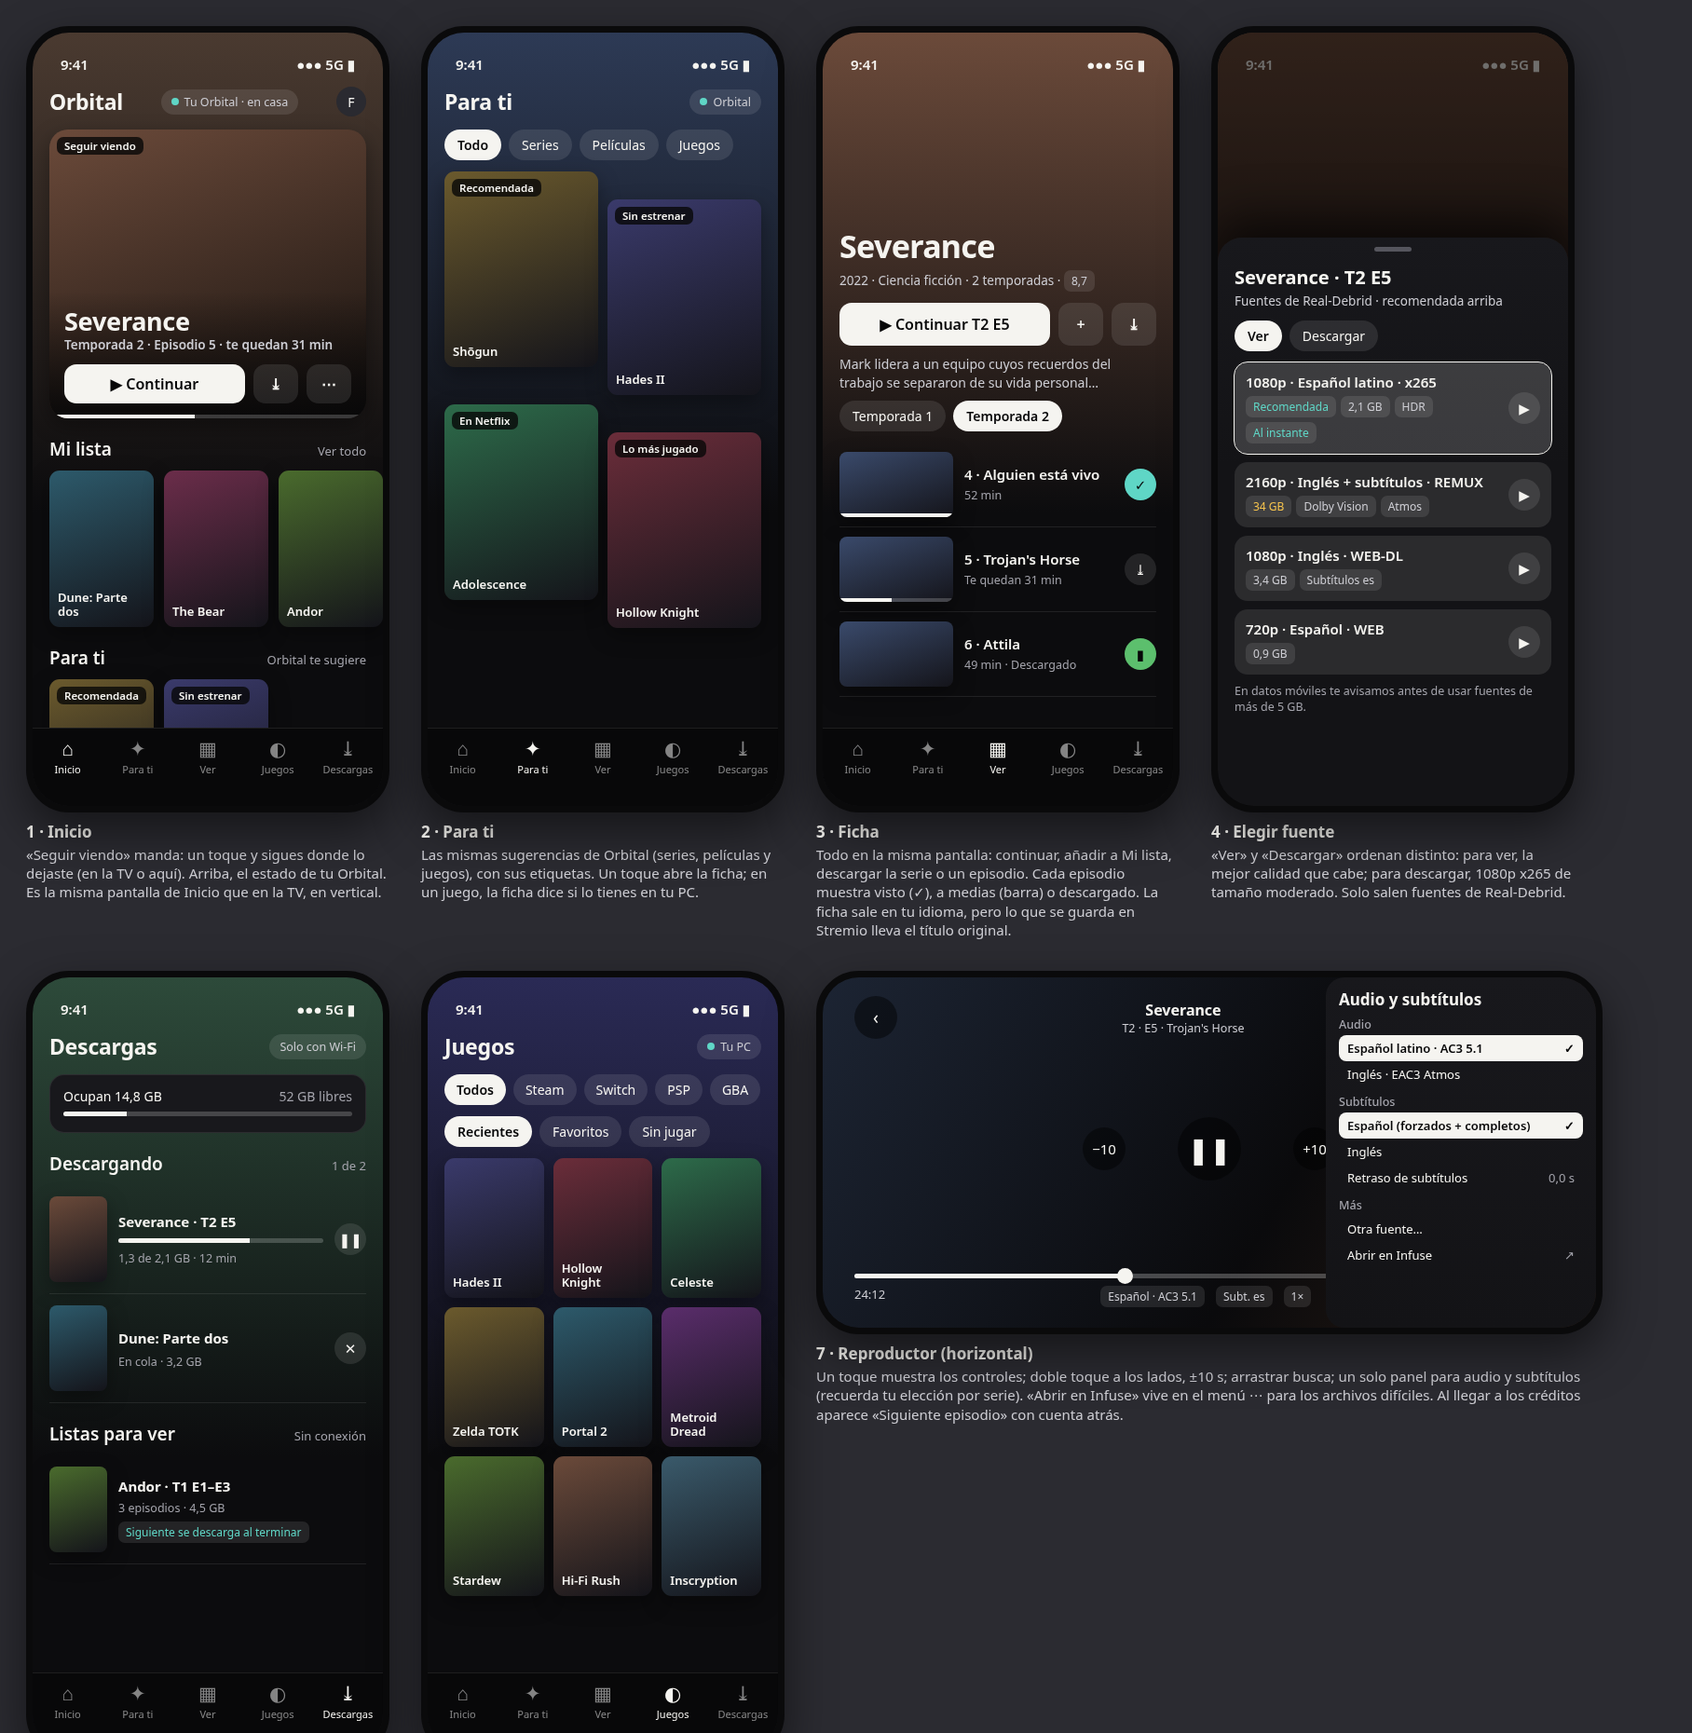
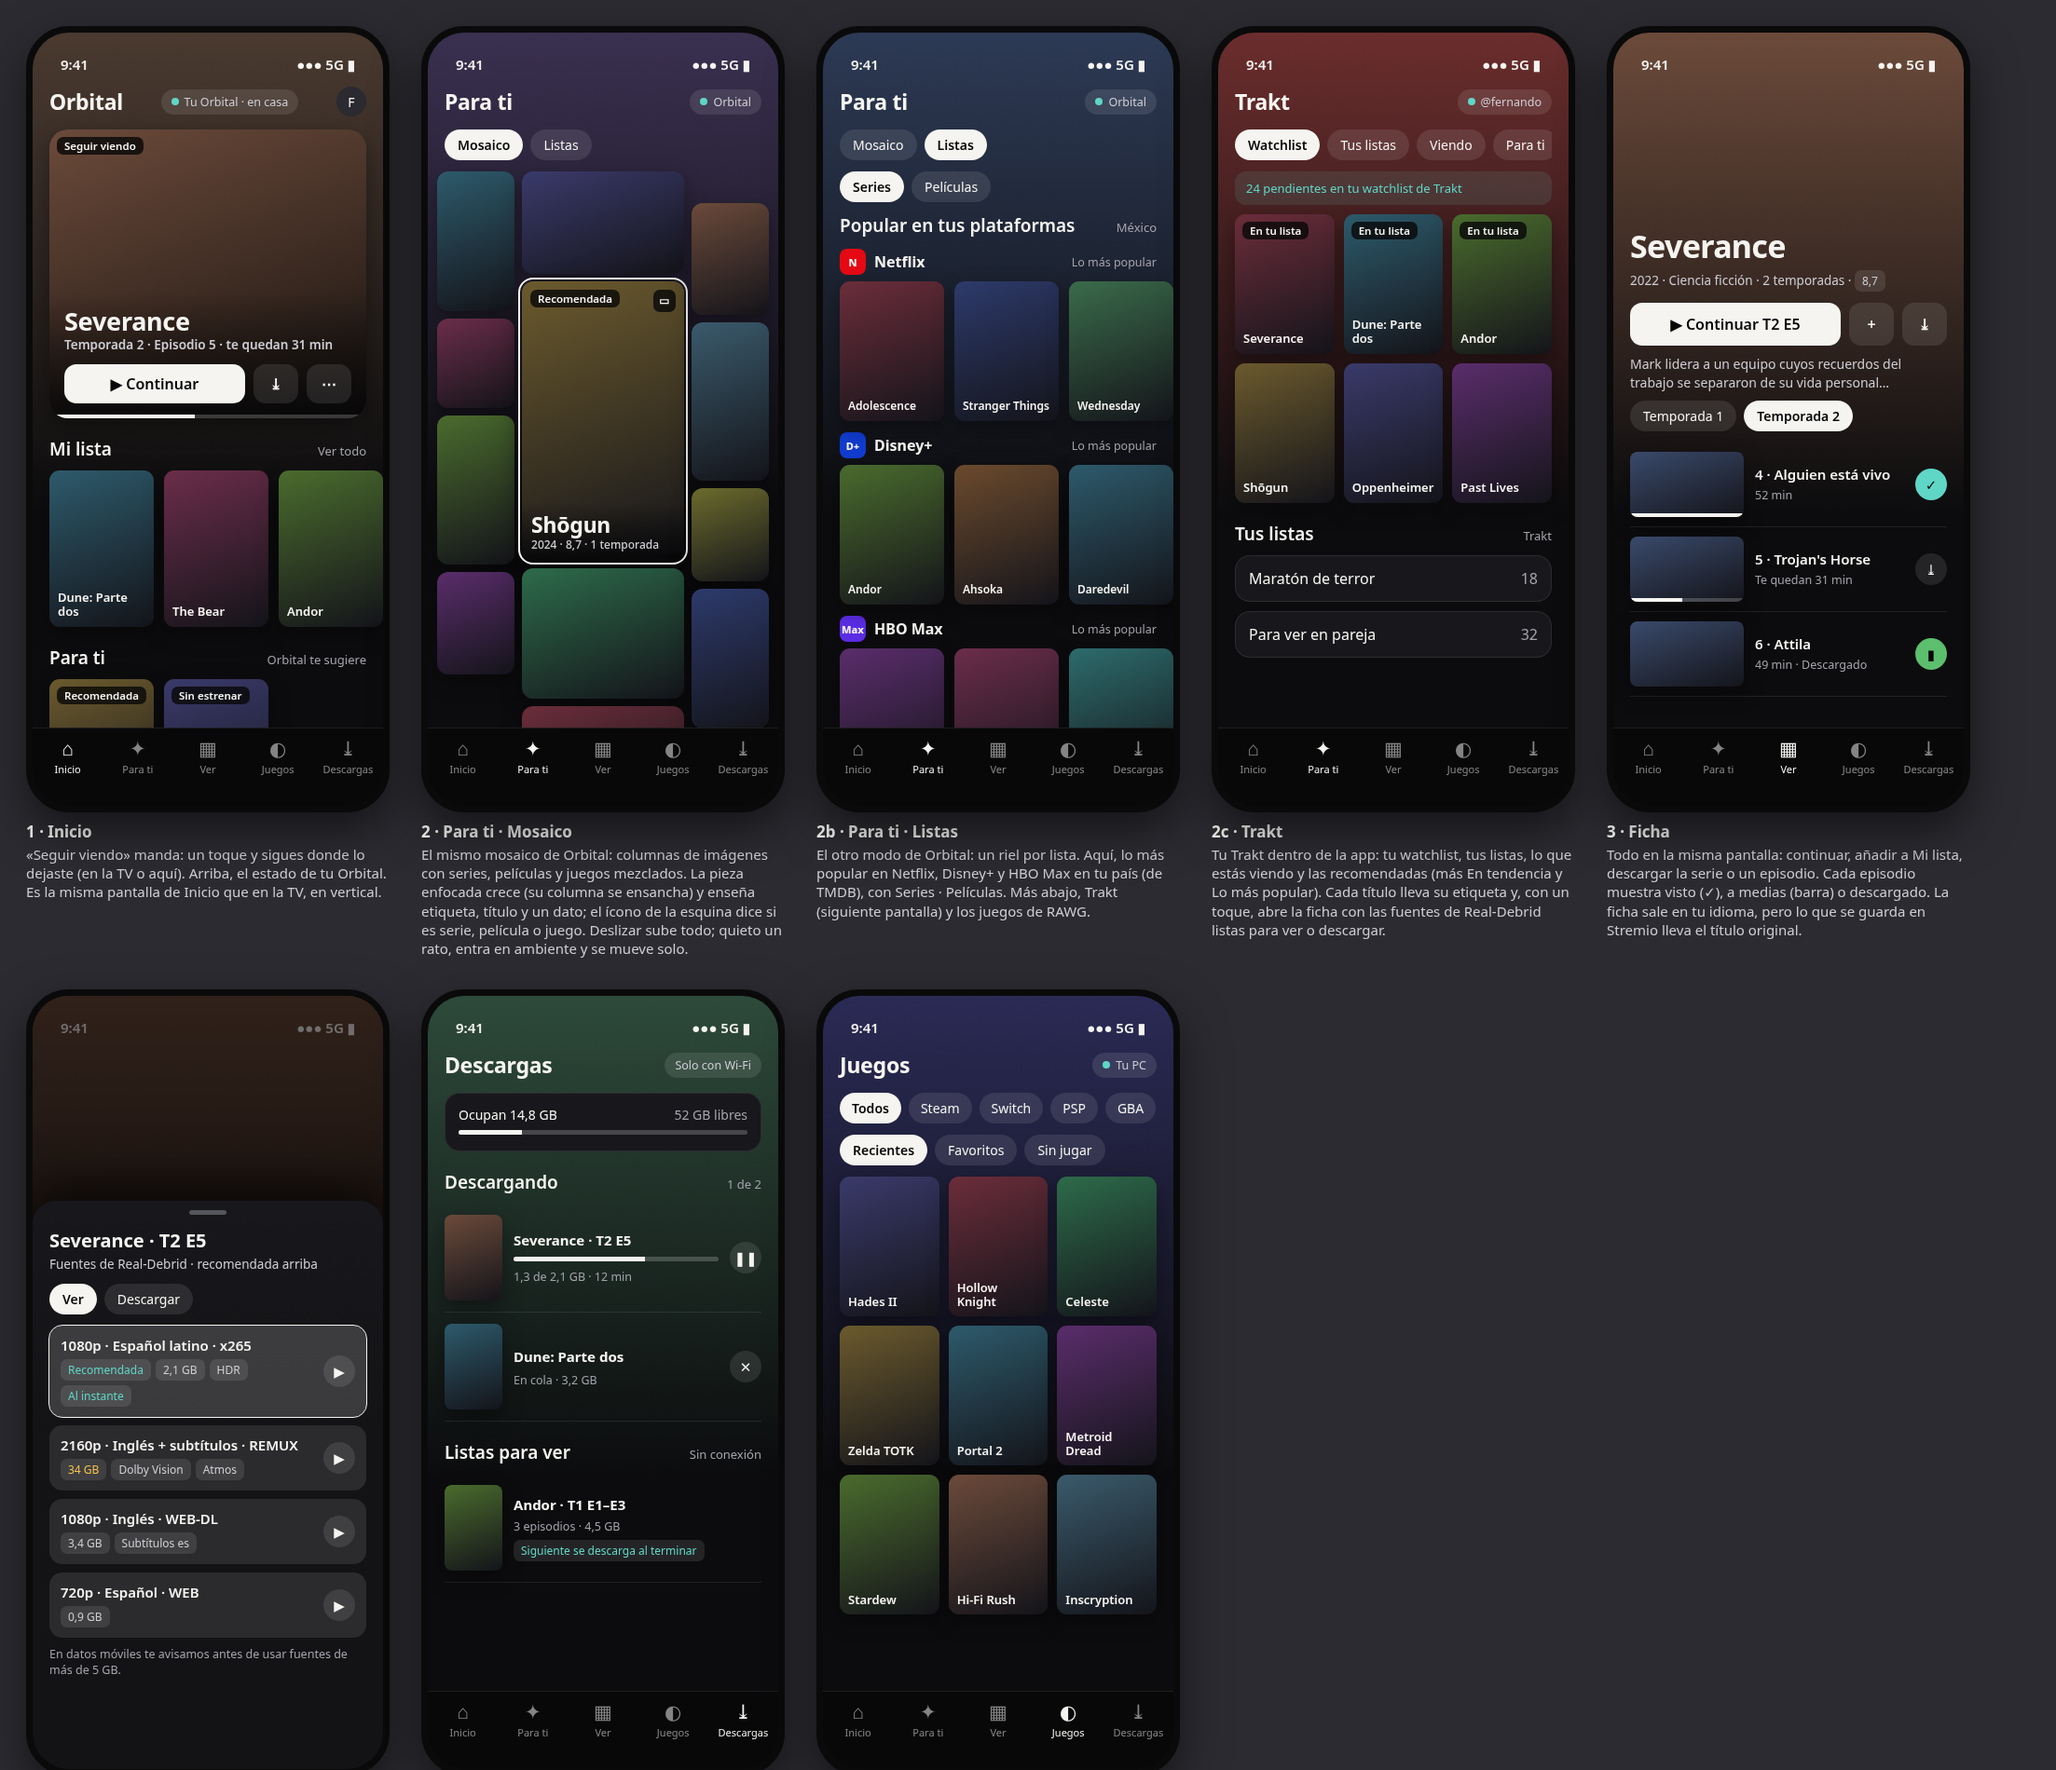
Interfaz iPhone: Para ti con mosaico de Orbital, populares por plataforma y zona de Trakt

diff --git a/docs/ios-interfaz/maqueta.html b/docs/ios-interfaz/maqueta.html
@@ -8,7 +8,7 @@
   --hair:rgba(255,255,255,.09);--fill:rgba(255,255,255,.1);--muted:var(--ink-300);--faint:rgba(255,255,255,.5);
 }
 *{box-sizing:border-box;margin:0}
-body{background:#2b2b31;font-family:-apple-system,"SF Pro Text","Segoe UI",system-ui,sans-serif;color:var(--paper);padding:28px;display:flex;flex-wrap:wrap;gap:34px;align-items:flex-start;width:1760px}
+body{background:#2b2b31;font-family:-apple-system,"SF Pro Text","Segoe UI",system-ui,sans-serif;color:var(--paper);padding:28px;display:flex;flex-wrap:wrap;gap:34px;align-items:flex-start;width:2150px}
 figure{display:flex;flex-direction:column;gap:10px}
 figcaption{font-size:15px;color:var(--ink-200);width:390px;line-height:1.35}
 figcaption b{color:var(--paper);display:block;font-size:17px;margin-bottom:2px}
@@ -70,6 +70,15 @@ h2 small{font-size:13px;font-weight:400;color:var(--muted)}
 .banner{border-radius:12px;background:rgba(244,194,77,.12);color:var(--amber);padding:9px 12px;font-size:13px;margin-bottom:10px}
 .mosaic{display:grid;grid-template-columns:1fr 1fr;gap:10px}.mosaic .poster{height:210px}.mosaic .poster:nth-child(2n){margin-top:30px}
 .sys{display:flex;gap:8px;overflow:hidden;margin-bottom:12px}.sys span{padding:7px 13px;border-radius:99px;background:var(--fill);font-size:14px;white-space:nowrap}.sys .on{background:var(--paper);color:var(--ink-1000);font-weight:650}
+.mos{display:flex;gap:8px;align-items:flex-start;justify-content:center}
+.col{display:flex;flex-direction:column;gap:8px}.col .poster{border-radius:12px;width:100%;padding:0}
+.poster.foc{outline:2px solid var(--paper);outline-offset:2px;position:relative;box-shadow:0 14px 30px rgba(0,0,0,.55)}
+.poster.foc .inf{margin-top:auto;padding:10px;width:100%;background:linear-gradient(0deg,rgba(7,7,8,.92),transparent);display:flex;flex-direction:column;gap:2px}
+.poster.foc .inf b{font-size:23px;font-weight:750;letter-spacing:-.01em}.poster.foc .inf span{font-size:12px;font-weight:500;color:var(--ink-200)}
+.corner{position:absolute;top:9px;right:9px;width:24px;height:24px;border-radius:7px;background:rgba(7,7,8,.8);display:grid;place-items:center;font-size:12px}
+.plat{display:flex;align-items:center;gap:9px;margin:12px 0 7px}.plat b{font-size:16px}.plat small{color:var(--muted);font-size:12.5px;margin-left:auto}
+.lg{width:28px;height:28px;border-radius:8px;display:grid;place-items:center;font-size:11px;font-weight:800}
+.row.sm .poster{width:112px;height:150px;flex:none;font-size:12px}
 </style>
 
 <!-- 1 INICIO -->
@@ -86,21 +95,64 @@ h2 small{font-size:13px;font-weight:400;color:var(--muted)}
 <div class="tabs"><div class="tab on"><i>⌂</i>Inicio</div><div class="tab"><i>✦</i>Para ti</div><div class="tab"><i>▦</i>Ver</div><div class="tab"><i>◐</i>Juegos</div><div class="tab"><i>⤓</i>Descargas</div></div>
 </div><figcaption><b>1 · Inicio</b>«Seguir viendo» manda: un toque y sigues donde lo dejaste (en la TV o aquí). Arriba, el estado de tu Orbital. Es la misma pantalla de Inicio que en la TV, en vertical.</figcaption></figure>
 
-<!-- 2 PARA TI -->
+<!-- 2 PARA TI · MOSAICO -->
+<figure><div class="phone"><div class="tint" style="--tint:#3a3050"></div>
+<div class="status"><span>9:41</span><span>●●● 5G ▮</span></div>
+<div class="scroll" style="padding:6px 10px">
+ <div class="top" style="padding:0 8px"><span class="brand">Para ti</span><span class="pill"><span class="dot"></span>Orbital</span></div>
+ <div class="seg" style="padding:0 8px;margin-top:0"><span class="on">Mosaico</span><span>Listas</span></div>
+ <div class="mos">
+  <div class="col" style="width:84px;margin-top:0">
+   <div class="poster" style="--c1:#2d5a6b;height:150px"></div><div class="poster" style="--c1:#6b2d4a;height:96px"></div><div class="poster" style="--c1:#4a6b2d;height:160px"></div><div class="poster" style="--c1:#5a2d6b;height:110px"></div>
+  </div>
+  <div class="col" style="width:176px">
+   <div class="poster" style="--c1:#3a3a6b;height:110px"></div>
+   <div class="poster foc" style="--c1:#6b5a2d;height:300px"><span class="corner">▭</span><span class="badge" style="top:9px;left:9px">Recomendada</span><div class="inf"><b>Shōgun</b><span>2024 · 8,7 · 1 temporada</span></div></div>
+   <div class="poster" style="--c1:#2d6b4a;height:140px"></div><div class="poster" style="--c1:#6b2d3a;height:120px"></div>
+  </div>
+  <div class="col" style="width:84px;margin-top:34px">
+   <div class="poster" style="--c1:#6b4a3a;height:120px"></div><div class="poster" style="--c1:#3a5a6b;height:170px"></div><div class="poster" style="--c1:#6b6b2d;height:100px"></div><div class="poster" style="--c1:#2d3a6b;height:150px"></div>
+  </div>
+ </div>
+</div>
+<div class="tabs"><div class="tab"><i>⌂</i>Inicio</div><div class="tab on"><i>✦</i>Para ti</div><div class="tab"><i>▦</i>Ver</div><div class="tab"><i>◐</i>Juegos</div><div class="tab"><i>⤓</i>Descargas</div></div>
+</div><figcaption><b>2 · Para ti · Mosaico</b>El mismo mosaico de Orbital: columnas de imágenes con series, películas y juegos mezclados. La pieza enfocada crece (su columna se ensancha) y enseña etiqueta, título y un dato; el ícono de la esquina dice si es serie, película o juego. Deslizar sube todo; quieto un rato, entra en ambiente y se mueve solo.</figcaption></figure>
+
+<!-- 2b PARA TI · LISTAS -->
 <figure><div class="phone"><div class="tint" style="--tint:#2d3a55"></div>
 <div class="status"><span>9:41</span><span>●●● 5G ▮</span></div>
 <div class="scroll">
  <div class="top"><span class="brand">Para ti</span><span class="pill"><span class="dot"></span>Orbital</span></div>
- <div class="seg"><span class="on">Todo</span><span>Series</span><span>Películas</span><span>Juegos</span></div>
- <div class="mosaic">
-  <div class="poster" style="--c1:#6b5a2d"><span class="badge">Recomendada</span>Shōgun</div>
-  <div class="poster" style="--c1:#3a3a6b"><span class="badge">Sin estrenar</span>Hades II</div>
-  <div class="poster" style="--c1:#2d6b4a"><span class="badge">En Netflix</span>Adolescence</div>
-  <div class="poster" style="--c1:#6b2d3a"><span class="badge">Lo más jugado</span>Hollow Knight</div>
- </div>
+ <div class="seg" style="margin-top:0"><span>Mosaico</span><span class="on">Listas</span></div>
+ <div class="seg" style="margin:0 0 4px"><span class="on">Series</span><span>Películas</span></div>
+ <h2 style="margin-top:12px">Popular en tus plataformas <small>México</small></h2>
+ <div class="plat"><span class="lg" style="background:#e50914">N</span><b>Netflix</b><small>Lo más popular</small></div>
+ <div class="row sm"><div class="poster" style="--c1:#6b2d3a">Adolescence</div><div class="poster" style="--c1:#2d3a6b">Stranger Things</div><div class="poster" style="--c1:#3a6b4a">Wednesday</div></div>
+ <div class="plat"><span class="lg" style="background:#113ccf">D+</span><b>Disney+</b><small>Lo más popular</small></div>
+ <div class="row sm"><div class="poster" style="--c1:#4a6b2d">Andor</div><div class="poster" style="--c1:#6b4a2d">Ahsoka</div><div class="poster" style="--c1:#2d5a6b">Daredevil</div></div>
+ <div class="plat"><span class="lg" style="background:#5c2de6">Max</span><b>HBO Max</b><small>Lo más popular</small></div>
+ <div class="row sm"><div class="poster" style="--c1:#5a2d6b">The Last of Us</div><div class="poster" style="--c1:#6b2d4a">Succession</div><div class="poster" style="--c1:#2d6b6b">Hacks</div></div>
 </div>
 <div class="tabs"><div class="tab"><i>⌂</i>Inicio</div><div class="tab on"><i>✦</i>Para ti</div><div class="tab"><i>▦</i>Ver</div><div class="tab"><i>◐</i>Juegos</div><div class="tab"><i>⤓</i>Descargas</div></div>
-</div><figcaption><b>2 · Para ti</b>Las mismas sugerencias de Orbital (series, películas y juegos), con sus etiquetas. Un toque abre la ficha; en un juego, la ficha dice si lo tienes en tu PC.</figcaption></figure>
+</div><figcaption><b>2b · Para ti · Listas</b>El otro modo de Orbital: un riel por lista. Aquí, lo más popular en Netflix, Disney+ y HBO Max en tu país (de TMDB), con Series · Películas. Más abajo, Trakt (siguiente pantalla) y los juegos de RAWG.</figcaption></figure>
+
+<!-- 2c TRAKT -->
+<figure><div class="phone"><div class="tint" style="--tint:#6b2d2d"></div>
+<div class="status"><span>9:41</span><span>●●● 5G ▮</span></div>
+<div class="scroll">
+ <div class="top"><span class="brand">Trakt</span><span class="pill"><span class="dot"></span>@fernando</span></div>
+ <div class="seg"><span class="on">Watchlist</span><span>Tus listas</span><span>Viendo</span><span>Para ti</span></div>
+ <div class="banner" style="background:rgba(95,214,198,.12);color:var(--teal)">24 pendientes en tu watchlist de Trakt</div>
+ <div class="grid">
+  <div class="poster" style="--c1:#6b2d3a"><span class="badge">En tu lista</span>Severance</div><div class="poster" style="--c1:#2d5a6b"><span class="badge">En tu lista</span>Dune: Parte dos</div><div class="poster" style="--c1:#4a6b2d"><span class="badge">En tu lista</span>Andor</div>
+  <div class="poster" style="--c1:#6b5a2d">Shōgun</div><div class="poster" style="--c1:#3a3a6b">Oppenheimer</div><div class="poster" style="--c1:#5a2d6b">Past Lives</div>
+ </div>
+ <h2>Tus listas <small>Trakt</small></h2>
+ <div class="card" style="display:flex;justify-content:space-between"><span>Maratón de terror</span><span style="color:var(--muted)">18</span></div>
+ <div class="card" style="display:flex;justify-content:space-between"><span>Para ver en pareja</span><span style="color:var(--muted)">32</span></div>
+</div>
+<div class="tabs"><div class="tab"><i>⌂</i>Inicio</div><div class="tab on"><i>✦</i>Para ti</div><div class="tab"><i>▦</i>Ver</div><div class="tab"><i>◐</i>Juegos</div><div class="tab"><i>⤓</i>Descargas</div></div>
+</div><figcaption><b>2c · Trakt</b>Tu Trakt dentro de la app: tu watchlist, tus listas, lo que estás viendo y las recomendadas (más En tendencia y Lo más popular). Cada título lleva su etiqueta y, con un toque, abre la ficha con las fuentes de Real-Debrid listas para ver o descargar.</figcaption></figure>
 
 <!-- 3 FICHA -->
 <figure><div class="phone"><div class="tint" style="--tint:#6b4a3a"></div>

diff --git a/docs/ios-interfaz.md b/docs/ios-interfaz.md
@@ -28,7 +28,9 @@ responde («en casa» / «Tu PC» / «sin conexión»: entonces Juegos y Para ti
 ## 3. Pantallas (ver la maqueta)
 
 1. **Inicio**: destacado «Continuar T2 E5» con barra de avance y botones Continuar · Descargar · Más.
-2. **Para ti**: mosaico con etiquetas («Recomendada», «Sin estrenar»…).
+2. **Para ti**, con selector Mosaico · Listas:
+   - **Mosaico**: igual al de Orbital (columnas de imágenes, la enfocada crece y enseña etiqueta, título y dato; ícono de serie, película o juego en la esquina).
+   - **Listas**: lo más popular en Netflix, Disney+ y HBO Max en tu país (TMDB), y la **zona de Trakt** (watchlist, tus listas, viendo, recomendadas, tendencia, popular), leída a través de tu Orbital.
 3. **Ficha**: Continuar, Mi lista, Descargar (serie o episodio), temporadas, episodios con estado
    (visto ✓ del bitfield de Stremio, a medias, descargado).
 4. **Fuentes**: hoja inferior con «Ver / Descargar». Solo fuentes `url` de Real-Debrid. La recomendada
@@ -63,3 +65,9 @@ lleva el título original. Audio y subtítulos tienen su propio idioma, separado
 - Si «Ver» y «Para ti» deben fundirse en una sola pestaña (hoy son dos para igualar la TV).
 - Si Juegos permite en el futuro lanzar desde el teléfono (hoy solo consulta, por seguridad).
 - Estilo del destacado: póster fijo (maqueta) o carrusel.
+
+## 6. Trakt
+
+Se lee a través de Orbital (una sola app conectada en cuentas gratuitas). Nivel 1, leer: primera etapa.
+Niveles 2 (escribir en watchlist, marcar visto) y 3 (scrobble): después, y requieren trabajo nuevo en
+`orbital/library/trakt.py`, que hoy solo lee. El avance sigue siendo de Stremio.
